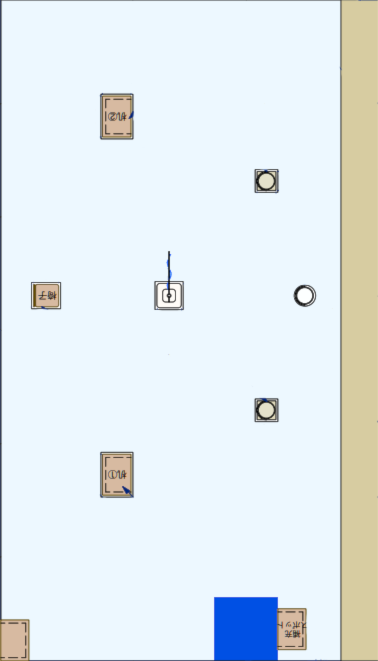
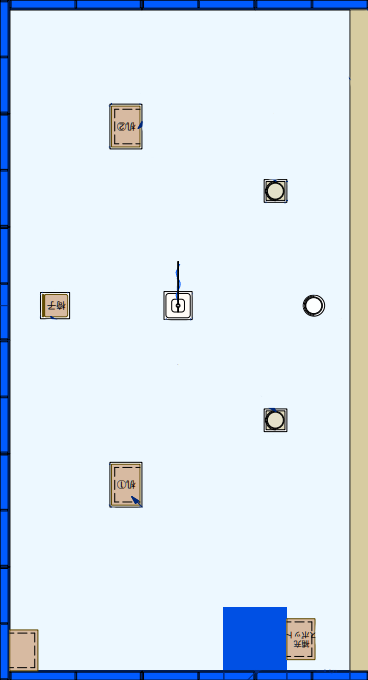
feat: 余白を作成

diff --git a/app/src/components/Konva/InteractionLayer.tsx b/app/src/components/Konva/InteractionLayer.tsx
@@ -1,37 +1,68 @@
 import { Arrow, Line } from "react-konva";
 import { useCanvasStore } from "../../stores/useCanvasStore";
 import type { Point2D } from "../../types";
+import { useWebSocketStore } from "../../stores/useWebSocketStore";
 
 /** 選択地点を示す赤い十字マーカー */
 function CrosshairMarker({
   position,
-  rotation,
+  cursorDir,
+  robotDir,
+  robotColor,
 }: {
   position: Point2D;
-  rotation: number;
+  cursorDir: number;
+  robotDir: number;
+  robotColor: "red" | "blue";
 }) {
-  const size = 10;
+  const crossSize = 10;
+  const arrowLineLength = 100;
 
   return (
     <>
       <Line
-        points={[position.x - size, position.y, position.x + size, position.y]}
-        stroke="red"
+        points={[
+          position.x - crossSize,
+          position.y,
+          position.x + crossSize,
+          position.y,
+        ]}
+        stroke={robotColor}
         strokeWidth={5}
       />
       <Line
-        points={[position.x, position.y - size, position.x, position.y + size]}
-        stroke="red"
+        points={[
+          position.x,
+          position.y - crossSize,
+          position.x,
+          position.y + crossSize,
+        ]}
+        stroke={robotColor}
         strokeWidth={5}
       />
+
+      {/*ロボットの現在角度*/}
       <Arrow
         points={[
           position.x,
           position.y,
-          position.x + 20 * Math.cos((rotation * Math.PI) / 180),
-          position.y + 20 * Math.sin((rotation * Math.PI) / 180),
+          position.x + arrowLineLength * Math.cos(robotDir),
+          position.y - arrowLineLength * Math.sin(robotDir),
+        ]}
+        stroke={robotColor}
+        strokeWidth={5}
+      />
+
+      {/*目標角度*/}
+      <Arrow
+        points={[
+          position.x,
+          position.y,
+          position.x + arrowLineLength * Math.cos(cursorDir),
+          position.y - arrowLineLength * Math.sin(cursorDir),
         ]}
         stroke="Green"
+        strokeWidth={5}
       />
     </>
   );
@@ -48,14 +79,18 @@ function CrosshairMarker({
  *   - Konva領域外へマウスが出る → cursorPosition が null になり追従表示が消える
  */
 export function InteractionLayer() {
-  const { selectedPosition, selectedDirection } = useCanvasStore();
+  const { colorMode, selectedPosition, cursorDirection } = useCanvasStore();
+  const { robotStatus } = useWebSocketStore();
 
+  const RobotDirection = robotStatus.direction;
   return (
     <>
       {selectedPosition && (
         <CrosshairMarker
           position={selectedPosition}
-          rotation={selectedDirection ?? 0}
+          cursorDir={cursorDirection}
+          robotDir={RobotDirection}
+          robotColor={colorMode}
         />
       )}
     </>

diff --git a/app/src/components/Konva/Object.tsx b/app/src/components/Konva/Object.tsx
@@ -20,23 +20,34 @@ export function ObjectLayer() {
     <>
       {/* ロボット本体（設定の初期位置・サイズ・中心補正を反映） */}
       <Rect
-        x={(robotStatus.position.x + config.robot.offset.x) * pixelScale}
-        y={(robotStatus.position.y + config.robot.offset.y) * pixelScale}
+        x={
+          (robotStatus.position.x -
+            config.robot.offset.x +
+            config.stage.margin.left) *
+          pixelScale
+        }
+        y={
+          (robotStatus.position.y -
+            config.robot.offset.y +
+            config.stage.margin.top) *
+          pixelScale
+        }
         width={config.robot.size.width * pixelScale}
         height={config.robot.size.height * pixelScale}
         fill="green"
         stroke="black"
+        rotation={robotStatus.direction - 90}
         strokeWidth={5}
       />
 
       {/* 障害物一覧（矩形 / 円を shape で出し分け） */}
-      {config.obstacles.map((obstacle, index) => {
+      {/*{config.obstacles.map((obstacle, index) => {
         if (obstacle.shape === "rect") {
           // position は矩形の中心座標なので、左上原点へ変換して描画する
           return (
             <Rect
               key={`obstacle-rect-${index}`}
-              x={(obstacle.position.x - obstacle.size.width / 2) * pixelScale}
+              x={(obstacle.position.x - obstacle.size.width / 2 ) * pixelScale}
               y={(obstacle.position.y - obstacle.size.height / 2) * pixelScale}
               width={obstacle.size.width * pixelScale}
               height={obstacle.size.height * pixelScale}
@@ -60,7 +71,7 @@ export function ObjectLayer() {
             strokeWidth={3}
           />
         );
-      })}
+      })}*/}
     </>
   );
 }

diff --git a/app/src/config/index.ts b/app/src/config/index.ts
@@ -23,10 +23,25 @@ import type { ColorMode, ModeConfig, InitialConfig } from "../types/config";
  * red モードの設定。
  */
 const redConfig: ModeConfig = {
+  stage: {
+    size: { width: 5850, height: 10800 },
+    margin: {
+      left: 300,
+      right: 150,
+      top: 150,
+      bottom: 150,
+    },
+  },
   field: {
-    size: { width: 5700, height: 10500 },
+    size: { width: 5400, height: 10500 },
     imagePath: "/fieldRedImage.png",
   },
+  // robot: {
+  //   originPosition: { x: 1800, y: 10500 - 500 },
+  //   offset: { x: 500, y: 500 },
+  //   size: { width: 1000, height: 1000 },
+  //   direction: 0,
+  // },
   robot: {
     originPosition: { x: 1800, y: 10500 - 500 },
     offset: { x: 500, y: 500 },
@@ -54,8 +69,17 @@ const redConfig: ModeConfig = {
  * blue モードの設定。
  */
 const blueConfig: ModeConfig = {
+  stage: {
+    size: { width: 5850, height: 10800 },
+    margin: {
+      left: 150,
+      right: 300,
+      top: 150,
+      bottom: 150,
+    },
+  },
   field: {
-    size: { width: 5700, height: 10500 },
+    size: { width: 5400, height: 10500 },
     imagePath: "/fieldBlueImage.png",
   },
   robot: {

diff --git a/app/src/utils/coordinate.ts b/app/src/utils/coordinate.ts
@@ -102,8 +102,10 @@ export function roundPoint(point: Point2D, decimals = 0): Point2D {
  * // => { x: 100, y: 10300 }
  * ```
  */
-export function coordinatesWorldToPixel(point: Point2D, origin: Point2D, fieldSize: Size2D): Point2D {
-  void fieldSize;
+export function coordinatesWorldToPixel(
+  point: Point2D,
+  origin: Point2D,
+): Point2D {
   return {
     x: origin.x + point.x,
     y: origin.y - point.y,
@@ -126,8 +128,10 @@ export function coordinatesWorldToPixel(point: Point2D, origin: Point2D, fieldSi
  * // => { x: 100, y: 200 }
  * ```
  */
-export function coordinatesPixelToWorld(point: Point2D, origin: Point2D, fieldSize: Size2D): Point2D {
-  void fieldSize;
+export function coordinatesPixelToWorld(
+  point: Point2D,
+  origin: Point2D,
+): Point2D {
   return {
     x: point.x - origin.x,
     y: origin.y - point.y,

diff --git a/app/src/types/config.ts b/app/src/types/config.ts
@@ -13,6 +13,16 @@ import type { Point2D, Size2D } from "./geometry";
  */
 export type ColorMode = "red" | "blue";
 
+export interface StageConfig {
+  size: Size2D;
+  margin: {
+    left: number;
+    right: number;
+    top: number;
+    bottom: number;
+  };
+}
+
 /**
  * フィールド（競技領域）の設定。
  * すべての座標・寸法は実世界座標（mm）
@@ -88,6 +98,7 @@ export type ObstacleConfig = RectObstacleConfig | CircleObstacleConfig;
  * フィールド・ロボット・障害物の値は red / blue で個別に定義する。
  */
 export interface ModeConfig {
+  stage: StageConfig;
   /** フィールドの設定 */
   field: FieldConfig;
   /** ロボットの設定 */

diff --git a/app/src/components/selectedInfoLabel.tsx b/app/src/components/selectedInfoLabel.tsx
@@ -12,19 +12,17 @@ export function SelectedInfoLabel() {
 
   if (!selectedPosition) return;
 
-  const fieldSize = getConfig(colorMode).field.size;
   const origin = getConfig(colorMode).robot.originPosition;
   const realPosition = coordinatesPixelToWorld(
     roundPoint(pixelToWorld(selectedPosition, pixelScale)),
     origin,
-    fieldSize,
   );
 
   return (
     <>
       <label>
         Selected Position: x={realPosition.x}, y={realPosition.y}, dir=
-        {selectedDirection}
+        {selectedDirection * 180 / Math.PI}
       </label>
     </>
   );

diff --git a/app/src/components/cursorInfoLabel.tsx b/app/src/components/cursorInfoLabel.tsx
@@ -12,19 +12,17 @@ export function CursorInfoLabel() {
 
   if (!cursorPosition) return;
 
-  const fieldSize = getConfig(colorMode).field.size;
   const origin = getConfig(colorMode).robot.originPosition;
   const realPosition = coordinatesPixelToWorld(
     roundPoint(pixelToWorld(cursorPosition, pixelScale)),
     origin,
-    fieldSize,
   );
 
   return (
     <>
       <label>
         Cursor Position: x={realPosition.x}, y={realPosition.y}, dir=
-        {cursorDirection}
+        {(cursorDirection * 180) / Math.PI}
       </label>
     </>
   );

diff --git a/app/src/hooks/useCanvasInteraction.ts b/app/src/hooks/useCanvasInteraction.ts
@@ -54,9 +54,7 @@ export function useCanvasInteraction() {
 
       const dx = pointerPos.x - selectedPosition.x;
       const dy = pointerPos.y - selectedPosition.y;
-
-      const dir = Math.atan2(dx, -dy);
-
+      const dir = Math.atan2(-dy, dx);
       setCursorDirection(dir);
     },
     [selectedPosition, setCursorDirection],

diff --git a/app/src/components/Konva/index.tsx b/app/src/components/Konva/index.tsx
@@ -52,6 +52,7 @@ export function Konva() {
     <Stage
       width={pixelFieldSize.width}
       height={pixelFieldSize.height}
+
       onMouseDown={handleTouchStart}
       onMouseMove={handleStageMouseMove}
 
